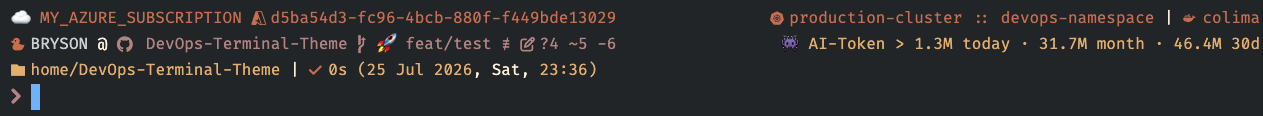
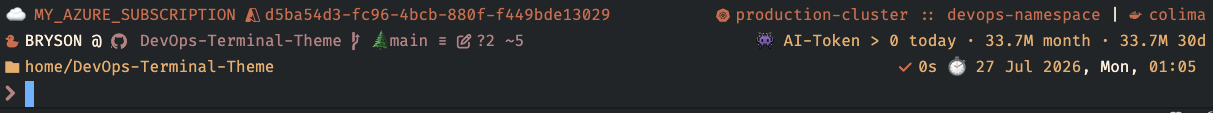
Update 2.1.0

diff --git a/RELEASE_NOTES.md b/RELEASE_NOTES.md
@@ -1,5 +1,28 @@
 # Release Notes
 
+## v2.1.0 — 2026-07-26
+
+### Changed
+- All three themes (`autumn-ember.yaml`, `forest-tide.yaml`, `pink-duck.yaml`)
+  now render identically for the following prompt segments:
+  - `session` segment foreground standardized to `p:white-text` (was
+    `p:user-text` on some themes).
+  - `path` segment template simplified to `" {{ .Path }}"`, dropping the
+    trailing `<p:white-text>| ` separator.
+  - `status`, `executiontime`, and `time` segments moved into their own
+    right-aligned `prompt` block (`alignment: right`, `overflow: hide`),
+    separated from the `path` segment's block.
+  - `executiontime` template unified to
+    `" {{ .FormattedMs }}s <p:white-text>⏱</> "` (replacing the `|`
+    separator / missing separator across themes).
+  - `time` segment template unified to
+    `" {{ .CurrentDate | date .Format }} "` (consistent leading/trailing
+    spaces, parentheses removed).
+- Updated preview images (`autumn-ember.png`, `forest-tide.png`,
+  `pink-duck.png`) to reflect the new prompt layout.
+- `themes/autumn-ember.yaml` / `themes/pink-duck.yaml`: fixed indentation of
+  the commented-out `#TODO: Test Data` sample template line.
+
 ## v2.0.0 — 2026-07-25
 
 ### Added
